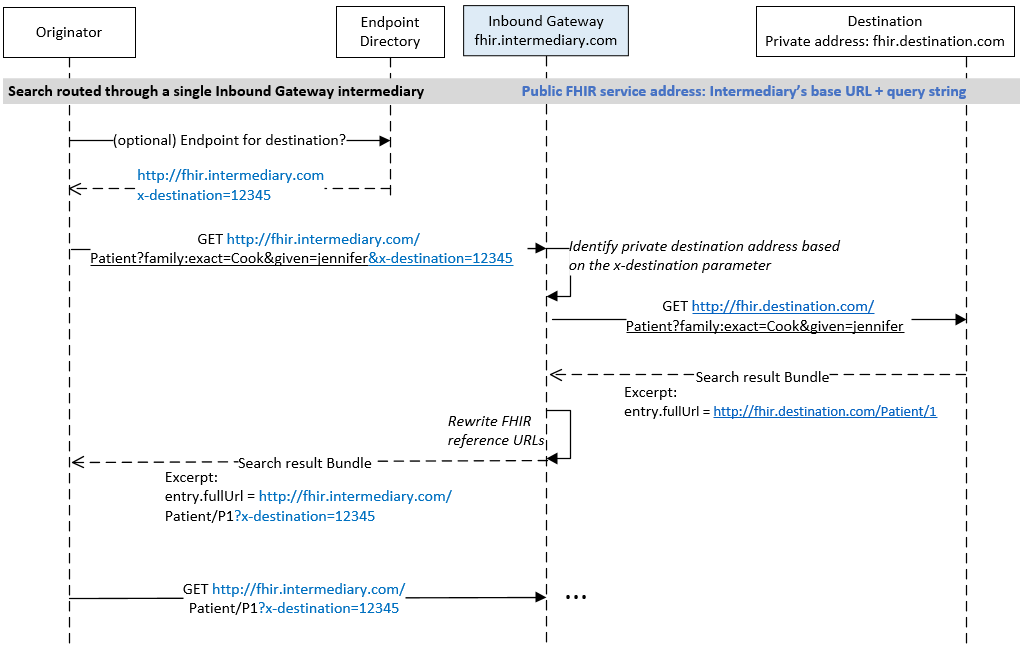
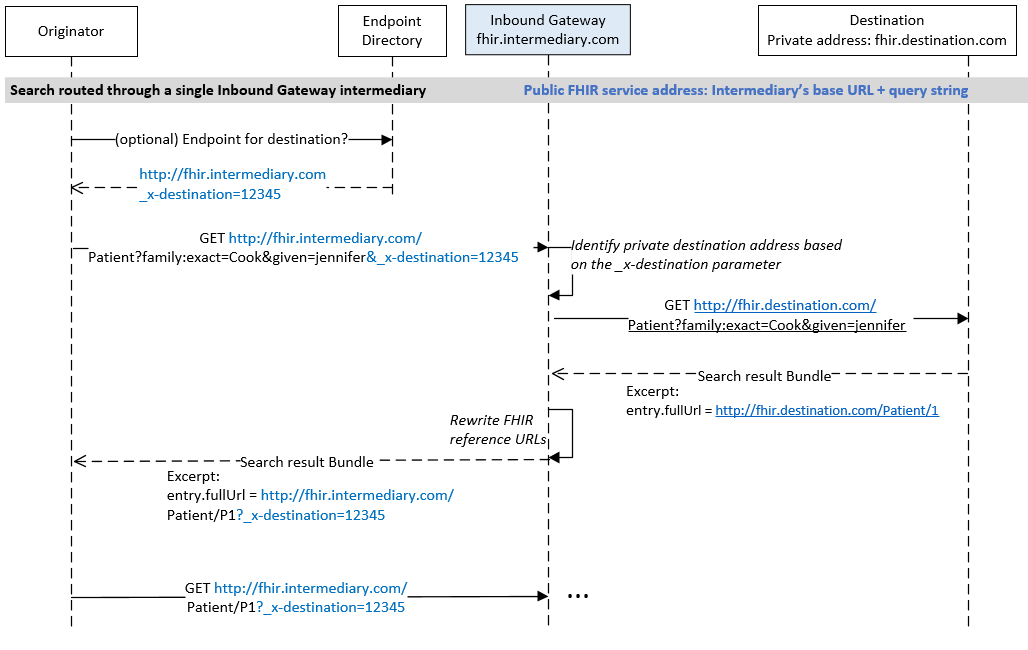
Added underscore to _x-destination query param

diff --git a/input/pages/specification.md b/input/pages/specification.md
@@ -46,7 +46,7 @@ The intermediary bases routing on the value passed in the `X-Destination` parame
 
 *This guide's preliminary approach is to represent the X-Destination in an extension on the element containing the service base URL.*
 
-**4. Intermediary's base URL accompanied by routing metadata passed in a query string parameter**, such as <br/>`fhir.example-intermediary.com/?x-destination=example-destination`
+**4. Intermediary's base URL accompanied by routing metadata passed in a query string parameter**, such as <br/>`fhir.example-intermediary.com/?_x-destination=12345`
 
 In this method, the destination's public FHIR service address consists of: 
 
@@ -55,9 +55,10 @@ In this method, the destination's public FHIR service address consists of:
 
 The parameter is:
 
-- added to the end of the request URL if it does not otherwise contain a query string. For example, in a GET that requests a resource by its identifier, the x-destination is appended to the end of the request: `GET http://fhir.intermediary.com/Patient/P1?x-destination=12345`
+- added to the end of the request URL if it does not otherwise contain a query string. For example, in a GET that requests a resource by its identifier, the x-destination is appended to the end of the request: `GET http://fhir.intermediary.com/Patient/P1?_x-destination=12345`
 - added as an additional parameter if the request already contains a query string. For example, in a search: 
-  `GET http://fhir.intermediary.com/Patient?family:exact=Cook&given=jennifer&x-destination=12345`
+  `GET http://fhir.intermediary.com/Patient?family:exact=Cook&given=jennifer`
+  `&_x-destination=12345`
 
 The intermediary bases routing on the value passed in the `x-destination` parameter, and then strips it from the URL string before forwarding the request to the destination system.
 
@@ -68,7 +69,7 @@ For example, in a search submitted to `http//fhir.intermediary.com` with the que
 - if the response returned from the destination to the intermediary contains this entry.fullUrl value:
   `http://fhir.destination.com/Patient/1`
 - the intermediary rewrites the fullUrl value to
-  `http://fhir.intermediary.com/ Patient/P1?x-destination=12345`
+  `http://fhir.intermediary.com/Patient/P1?_x-destination=12345`
 
 <p></p>
 
